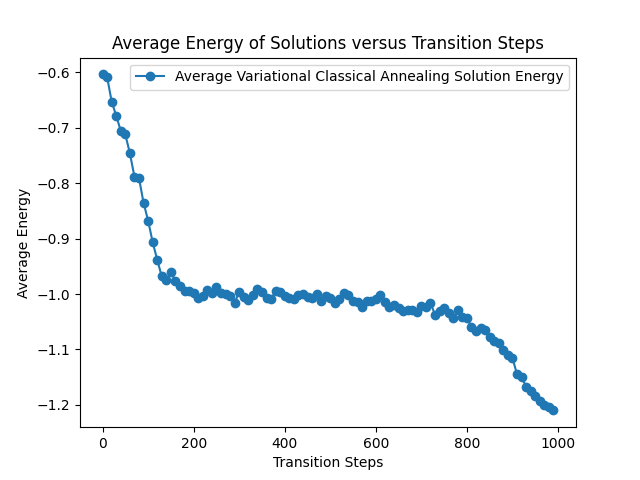
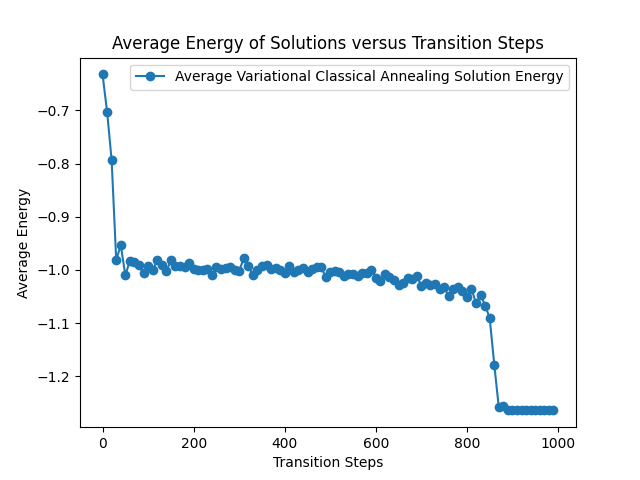
Edits

diff --git a/Evaluate_Model_Matching/Lowest_Calculate_FOM.py b/Evaluate_Model_Matching/Lowest_Calculate_FOM.py
@@ -1,5 +1,3 @@
-import pickle
-
 import matplotlib.pyplot as plt
 import numpy as np
 import polytensor
@@ -16,10 +14,8 @@ from Functions import (
     get_annealing_vectors,
     get_sampling_vars,
     load_FOM_model,
-    load_from_checkpoint,
     threshold,
 )
-
 
 lowest_num = 5000
 device = "cuda"
@@ -38,53 +34,45 @@ terms = polytensor.generators.coeffPUBORandomSampler(
     n=num_vars, num_terms=num_per_degree, sample_fn=sample_fn
 )
 
+energy_loss_fn = CorrelationalLoss(1, 1, 1)
+
 terms = polytensor.generators.denseFromSparse(terms, num_vars)
 terms.append(torch.randn(num_vars, num_vars))
 
 energy_fn = polytensor.DensePolynomial(terms)
 
-second_degree_model = BVAE(energy_fn, torch.randn(1), h_dim=128)
-second_degree_model.load_state_dict(
-    torch.load("../Annealing_Matching/Models/QUBO_order_2/epoch=9999-step=200000.ckpt")[
-        "state_dict"
-    ]
+second_degree_model = BVAE.load_from_checkpoint(
+    "../Annealing_Matching/Models/QUBO_order_2/epoch=9999-step=200000.ckpt",
+    energy_fn=energy_fn,
+    energy_loss_fn=energy_loss_fn,
+    h_dim=128,
 )
 
 terms.append(torch.randn(num_vars, num_vars, num_vars))
 
 energy_fn = polytensor.DensePolynomial(terms)
 
-third_degree_model = BVAE(energy_fn, torch.randn(1), h_dim=128)
-third_degree_model.load_state_dict(
-    torch.load("../Annealing_Matching/Models/QUBO_order_3/epoch=9999-step=200000.ckpt")[
-        "state_dict"
-    ]
+third_degree_model = BVAE.load_from_checkpoint(
+    "../Annealing_Matching/Models/QUBO_order_3/epoch=9999-step=200000.ckpt",
+    energy_fn=energy_fn,
+    energy_loss_fn=energy_loss_fn,
+    h_dim=128,
 )
 
-# terms.append(torch.randn(num_vars, num_vars, num_vars, num_vars))
-# energy_fn = polytensor.DensePolynomial(terms)
+terms.append(torch.randn(num_vars, num_vars, num_vars, num_vars))
+energy_fn = polytensor.DensePolynomial(terms)
 
-# fourth_degree_model = BVAE(energy_fn, torch.randn(1), h_dim=128)
-# fourth_degree_model.load_state_dict(torch.load("../Annealing_Learnable/Models/QUBO_order_4/epoch=9999-step=200000.ckpt")['state_dict'])
+fourth_degree_model = BVAE.load_from_checkpoint(
+    "../Annealing_Matching/Models/QUBO_order_4/epoch=9999-step=200000.ckpt",
+    energy_fn=energy_fn,
+    energy_loss_fn=energy_loss_fn,
+    h_dim=128,
+)
 
 
-model_list = [second_degree_model, third_degree_model]
-
-energy_loss_fn = CorrelationalLoss()
-
-FOM_calculator = load_FOM_model("../Files/VGGnet.json", "../Files/VGGnet_weights.h5")
-
-model_dir_list = ["./Models/2nd_degree/", "./Models/3rd_degree/"]
+model_list = [second_degree_model, third_degree_model, fourth_degree_model]
 
 log_dir = ""
-
-"""
-# load QIOTE vectors
-optimal_vectors_list_qiote = None
-with open("optimal_vectors.pkl", "rb") as file:
-    optimal_vector_list_qiote = pickle.load(file)
-
-"""
 
 
 def remove(tensor, index):
@@ -94,6 +82,16 @@ def remove(tensor, index):
 second, third, fourth = get_annealing_vectors()
 optimal_vectors = [second, third, fourth]
 new_optimal_vectors = []
+
+energy_loss_fn = CorrelationalLoss()
+
+FOM_calculator = load_FOM_model("../Files/VGGnet.json", "../Files/VGGnet_weights.h5")
+
+model_dir_list = [
+    "./Models/2nd_degree/",
+    "./Models/3rd_degree/",
+    "./Models/4th_degree/",
+]
 
 degree = 2
 

diff --git a/Evaluate_Model_Learnable/Lowest_Calculate_FOM.py b/Evaluate_Model_Learnable/Lowest_Calculate_FOM.py
@@ -16,7 +16,6 @@ from Functions import (
     get_annealing_vectors,
     get_sampling_vars,
     load_FOM_model,
-    load_from_checkpoint,
     threshold,
 )
 
@@ -56,27 +55,21 @@ energy_fn = polytensor.DensePolynomial(terms)
 
 fourth_degree_model = BVAE.load_from_checkpoint("../Annealing_Learnable/Models/QUBO_order_4/epoch=9999-step=200000.ckpt", energy_fn=energy_fn, energy_loss_fn=energy_loss_fn, h_dim=128)
 
+composite_model = BVAE.load_from_checkpoint("../Annealing_Learnable/Models/Composite/epoch=9999-step=200000.ckpt", energy_fn=energy_fn, energy_loss_fn=energy_loss_fn, h_dim=128)
 
-model_list = [second_degree_model, third_degree_model, fourth_degree_model]
+model_list = [second_degree_model, third_degree_model, fourth_degree_model, composite_model]
 
 energy_loss_fn = CorrelationalLoss()
 
 FOM_calculator = load_FOM_model("../Files/VGGnet.json", "../Files/VGGnet_weights.h5")
 
-model_dir_list = ["./Models/2nd_degree/", "./Models/3rd_degree/", "./Models/4th_degree/"]
+model_dir_list = ["./Models/2nd_degree/", "./Models/3rd_degree/", "./Models/4th_degree/", "./Models/Composite/"]
 
 log_dir = ""
 
-"""
-# load QIOTE vectors
-optimal_vectors_list_qiote = None
-with open("optimal_vectors.pkl", "rb") as file:
-    optimal_vector_list_qiote = pickle.load(file)
+second, third, fourth, composite_vectors = get_annealing_vectors()
 
-"""
-
-second, third, fourth = get_annealing_vectors()
-optimal_vectors = [second, third, fourth]
+optimal_vectors = [second, third, fourth, composite_vectors]
 
 
 def mean_normalize(images: torch.Tensor):
@@ -94,9 +87,14 @@ for model_dir in model_dir_list:
         optimal_vector_list = optimal_vectors[1].cuda()
         model = model_list[1]
         degree = 4
-    else:
+    elif degree == 4:
         optimal_vector_list = optimal_vectors[2].cuda()
         model = model_list[2]
+        degree = 5
+    else:
+        optimal_vector_list = optimal_vectors[3].cuda()
+        model = model_list[3]
+        degree = 6
 
     model = model.cuda()
     new_list = []
@@ -143,10 +141,17 @@ for model_dir in tqdm(model_dir_list):
         model = model_list[1]
         """ADDED"""
         continue
-    else:
+    elif degree == 4:
         optimal_vector_list = optimal_vectors[2]
         folder_path = "./Models/4th_degree/"
         model = model_list[2]
+        degree = 5
+        continue
+    else:
+        optimal_vector_list = optimal_vectors[3]
+        folder_path = "./Models/Composite/"
+        model = model_list[3]
+        degree = 6
 
     print(optimal_vector_list.size())
     num_iters = optimal_vector_list.size()[0] // 100

diff --git a/Annealing_Matching/plot_correlation.py b/Annealing_Matching/plot_correlation.py
@@ -33,6 +33,12 @@ energy_fn = polytensor.DensePolynomial(terms)
 
 third_degree_model = BVAE.load_from_checkpoint("./Models/QUBO_order_3/epoch=9999-step=200000.ckpt", energy_fn=energy_fn, energy_loss_fn=energy_loss_fn, h_dim=128)
 
+terms.append(torch.randn(num_vars, num_vars, num_vars, num_vars))
+
+energy_fn = polytensor.DensePolynomial(terms)
+
+fourth_degree_model = BVAE.load_from_checkpoint("./Models/QUBO_order_4/epoch=9999-step=200000.ckpt", energy_fn=energy_fn, energy_loss_fn=energy_loss_fn, h_dim=128)
+
 dataset = np.expand_dims(np.load("../Files/TPV_dataset.npy"), 1)
 normalizedDataset = (dataset - np.min(dataset)) / (np.max(dataset) - np.min(dataset))
 
@@ -128,5 +134,43 @@ plt.xlabel("FOMs")
 plt.ylabel("Energies")
 plt.savefig("Scatter_Third_Degree_Matching.png", dpi=300)
 
+fourth_degree_model = fourth_degree_model.to("cuda")
+
+fourth_degree_model.scale = fourth_degree_model.scale.cuda()
+
+FOMs = []
+energies = []
+
+with torch.no_grad():
+    for batch in train_loader:
+        images, labels = batch
+        images = images.cuda().float()
+        labels = labels.cuda().float()
+
+        FOMs.extend(labels.detach().cpu().numpy())
+        logits = fourth_degree_model.vae.encode(images)
+        probabilities = F.softmax(logits, dim=2)
+        probabilities_condensed = probabilities.view(-1, num_logits)
+        sampled_vector = sampler(probabilities_condensed, 1, True).view(
+            batch_size, latent_vector_dim
+        )
+        valid_vector = fourth_degree_model.scale_vector_copy_gradient(sampled_vector, probabilities)
+        original_sampled_vector_with_gradient = valid_vector
+        sampled_energies = fourth_degree_model.energy_fn(original_sampled_vector_with_gradient)
+        sampled_energies = torch.squeeze(sampled_energies)
+        loss = cl(sampled_energies, labels)
+        energies.extend(sampled_energies.detach().cpu().numpy())
+
+loss = cl(torch.Tensor(FOMs), torch.Tensor(energies))
+fourth_degree_pearson = cl.correlation
+plt.figure()
+plt.scatter(FOMs, energies)
+plt.title("Fourth Degree Energies versus FOMs")
+plt.xlabel("FOMs")
+plt.ylabel("Energies")
+plt.savefig("Scatter_Fourth_Degree_Matching.png", dpi=300)
+
+
+
 with open("plot_notes.txt", "w") as file:
-    file.write(f"Second_degree_pearson: {second_degree_pearson}\nThird_degree_pearson: {third_degree_pearson}")
+    file.write(f"Second_degree_pearson: {second_degree_pearson}\nThird_degree_pearson: {third_degree_pearson}\nFourth degree pearson: {fourth_degree_pearson}")

diff --git a/Annealing_Matching/annealing.py b/Annealing_Matching/annealing.py
@@ -11,15 +11,15 @@ from Energy_Encoder_Classes import BVAE
 device = "cuda"
 epochs = 1000
 lr = 5e-4
-batch_size = 100
+batch_size = 200
 warmup_steps = 0
 temperature = 1
 N_gradient_descent = 1
 N_samples = 50
 log_step_size = 10
-min_energy_repeat_threshold = 600
+min_energy_repeat_threshold = 100
 vector_length = 64
-num_vector_samples = 30
+num_vector_samples = 200
 
 print_vector = False
 plot = True
@@ -47,16 +47,29 @@ energy_fn = polytensor.DensePolynomial(terms)
 
 third_degree_model = BVAE.load_from_checkpoint("./Models/QUBO_order_3/epoch=9999-step=200000.ckpt", energy_fn=energy_fn, energy_loss_fn=energy_loss_fn, h_dim=128)
 
+terms.append(torch.randn(num_vars, num_vars, num_vars, num_vars))
 
-model_list = [second_degree_model, third_degree_model]
+energy_fn = polytensor.DensePolynomial(terms)
+
+fourth_degree_model = BVAE.load_from_checkpoint("./Models/QUBO_order_4/epoch=9999-step=200000.ckpt", energy_fn=energy_fn, energy_loss_fn=energy_loss_fn, h_dim=128)
+
+
+model_list = [second_degree_model, third_degree_model, fourth_degree_model]
+
+"""CHANGED"""
+model_list = [fourth_degree_model]
+""""""
 
 for experiment_number, model in enumerate(model_list):
+    """CHANGED"""
+    experiment_number = 3
+    """"""
     model = model.to(device)
     energy_loss = Variational_Free_Energy(
         model.energy_fn, N_samples=N_samples, batch_size=batch_size
     )
     energy_loss = energy_loss.to(device)
-    rnn = RNN_Tensorized().to(device)
+    rnn = RNN(batch_size=batch_size).to(device)
 
     optimizer = torch.optim.Adam(params=rnn.parameters(), lr=lr)
 
@@ -133,6 +146,7 @@ for experiment_number, model in enumerate(model_list):
             print(f"Epoch: {epoch}")
             print(f"Min Energy: {min_energy}")
             print(f"Loss: {loss}")
+            print(f"Num vectors: {len(unique_vector_list)}")
             if print_vector:
                 print(f"{best_vector}")
             average_energies.append(torch.mean(model.energy_fn(sigma)).item())
@@ -154,8 +168,8 @@ for experiment_number, model in enumerate(model_list):
         save_dir = "./Models/QUBO_order_2/"
     elif experiment_number == 1:
         save_dir = "./Models/QUBO_order_3/"
-    # else:
-    #     save_dir = "./Models/QUBO_order_4/"
+    else:
+        save_dir = "./Models/QUBO_order_4/"
 
     print(f"Elapsed time: {elapsed_time}")
     print(f"Time per epoch: {time_per_epoch}")

diff --git a/Annealing_Learnable/annealing.py b/Annealing_Learnable/annealing.py
@@ -10,7 +10,7 @@ from annealing_classes import (
     RNN_Concat,
     RNN_Tensorized,
     Variational_Free_Energy,
-    Variational_Free_Energy_modified_for_specific_value
+    Variational_Free_Energy_modified_for_specific_value,
 )
 from Energy_Encoder_Classes import BVAE, CorrelationalLoss
 
@@ -73,10 +73,17 @@ fourth_degree_model = BVAE.load_from_checkpoint(
     h_dim=128,
 )
 
-model_list = [second_degree_model, third_degree_model, fourth_degree_model]
+composite_model = BVAE.load_from_checkpoint(
+    "./Models/Composite/epoch=9999-step=200000.ckpt",
+    energy_fn=energy_fn,
+    energy_loss_fn=energy_loss_fn,
+    h_dim=128,
+)
+
+model_list = [second_degree_model, third_degree_model, fourth_degree_model, composite_model]
 
 for experiment_number, model in enumerate(model_list):
-    if experiment_number != 2:
+    if experiment_number != 3:
         continue
     model = model.to(device)
     energy_loss = Variational_Free_Energy(
@@ -84,7 +91,9 @@ for experiment_number, model in enumerate(model_list):
     )
 
     """ADDED"""
-    energy_loss = Variational_Free_Energy_modified_for_specific_value(model.energy_fn, N_samples=N_samples, batch_size=batch_size)
+    energy_loss = Variational_Free_Energy_modified_for_specific_value(
+        model.energy_fn, N_samples=N_samples, batch_size=batch_size
+    )
     """"""
 
     energy_loss = energy_loss.to(device)
@@ -190,8 +199,10 @@ for experiment_number, model in enumerate(model_list):
         save_dir = "./Models/QUBO_order_2/"
     elif experiment_number == 1:
         save_dir = "./Models/QUBO_order_3/"
-    else:
+    elif experiment_number == 2:
         save_dir = "./Models/QUBO_order_4/"
+    else:
+        save_dir = "./Models/Composite/"
 
     print(f"Elapsed time: {elapsed_time}")
     print(f"Time per epoch: {time_per_epoch}")

diff --git a/Evaluate_Model_Matching/Functions.py b/Evaluate_Model_Matching/Functions.py
@@ -57,13 +57,13 @@ def compute_pearson_correlation(x_FOM, y_Energy):
 
 def get_annealing_vectors():
     second = torch.load(
-        "../Annealing_Learnable/Models/QUBO_order_2/neural_annealing_vectors.pt"
+        "../Annealing_Matching/Models/QUBO_order_2/neural_annealing_vectors.pt"
     )
     third = torch.load(
-        "../Annealing_Learnable/Models/QUBO_order_3/neural_annealing_vectors.pt"
+        "../Annealing_Matching/Models/QUBO_order_3/neural_annealing_vectors.pt"
     )
     fourth = torch.load(
-        "../Annealing_Learnable/Models/QUBO_order_4/neural_annealing_vectors.pt"
+        "../Annealing_Matching/Models/QUBO_order_4/neural_annealing_vectors.pt"
     )
 
     return second, third, fourth

diff --git a/Evaluate_Model_Learnable/Functions.py b/Evaluate_Model_Learnable/Functions.py
@@ -65,8 +65,11 @@ def get_annealing_vectors():
     fourth = torch.load(
         "../Annealing_Learnable/Models/QUBO_order_4/Simple_RNNneural_annealing_vectors.pt"
     )
+    composite = torch.load(
+        "../Annealing_Learnable/Models/Composite/Simple_RNNneural_annealing_vectors.pt"
+    )
 
-    return second, third, fourth
+    return second, third, fourth, composite
 
 
 def load_from_checkpoint(model, model_dir):
